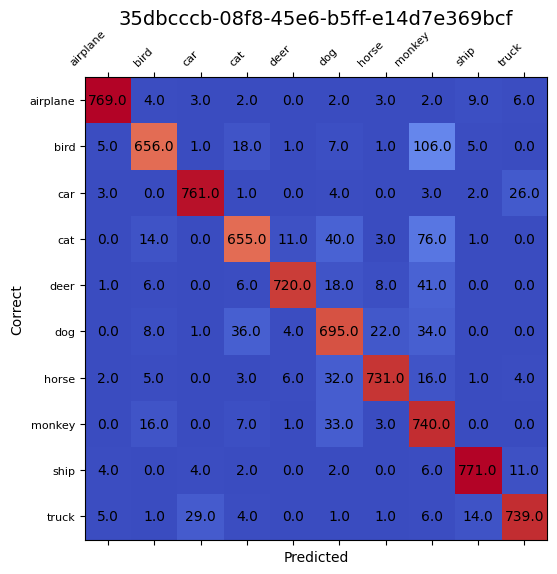
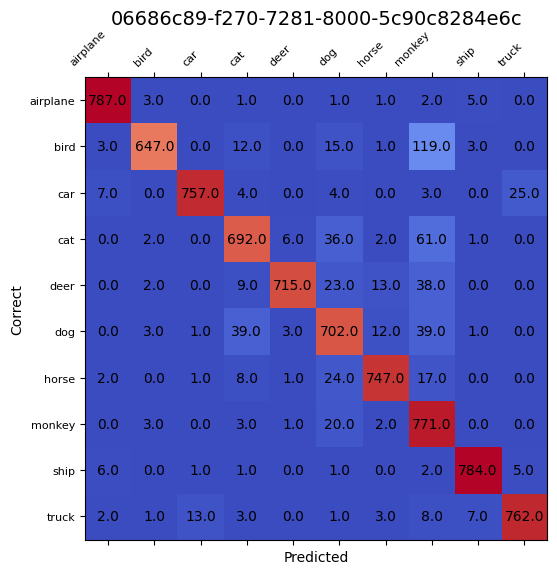
update

diff --git a/src/main.py b/src/main.py
@@ -81,7 +81,7 @@ def load_data(batch):
 
 def objective(trial):
     device = torch.device("cuda")
-    epochs = 1000
+    epochs = 500
 
     uuid = uuid7str()
     os.makedirs(f"result/{uuid}", exist_ok=True)

diff --git a/README.md b/README.md
@@ -1,6 +1,6 @@
 # stl10-cnn-compe
 
-accuracy: 0.904625
+accuracy: 0.92925
 
 ![loss_acc](img/loss_acc.png)
 ![matrix](img/matrix.png)
